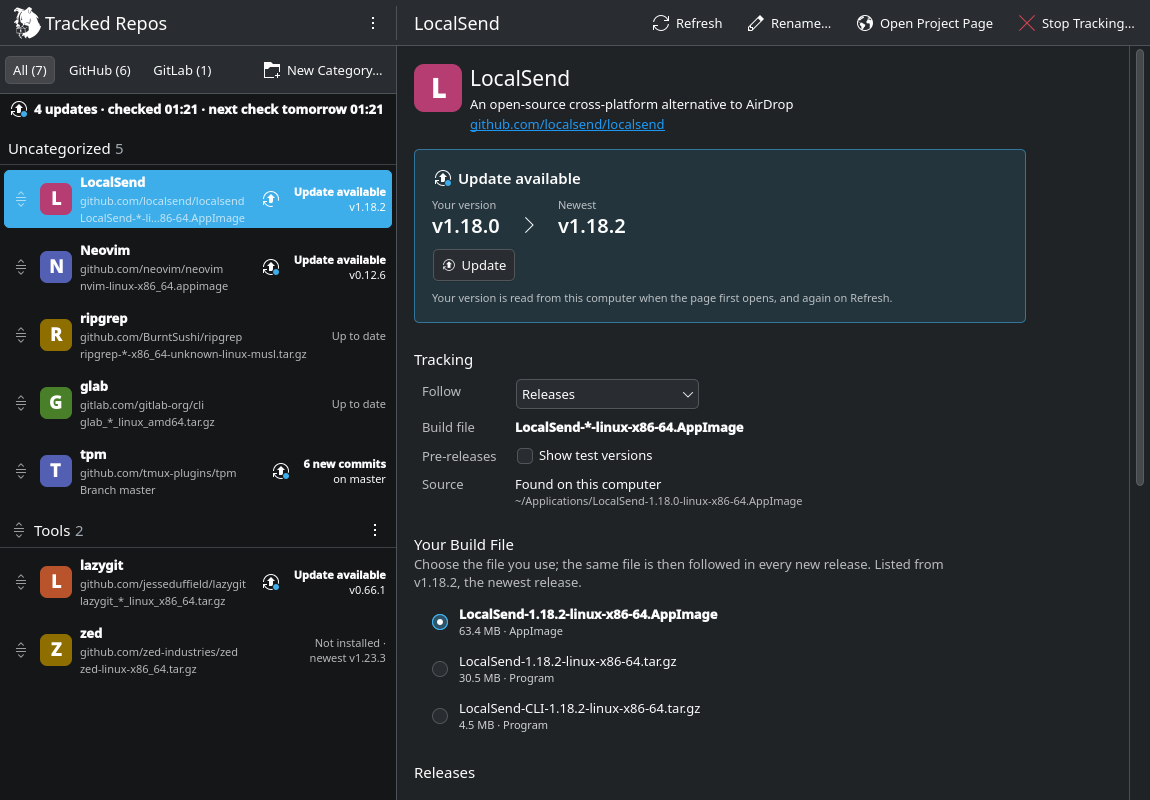
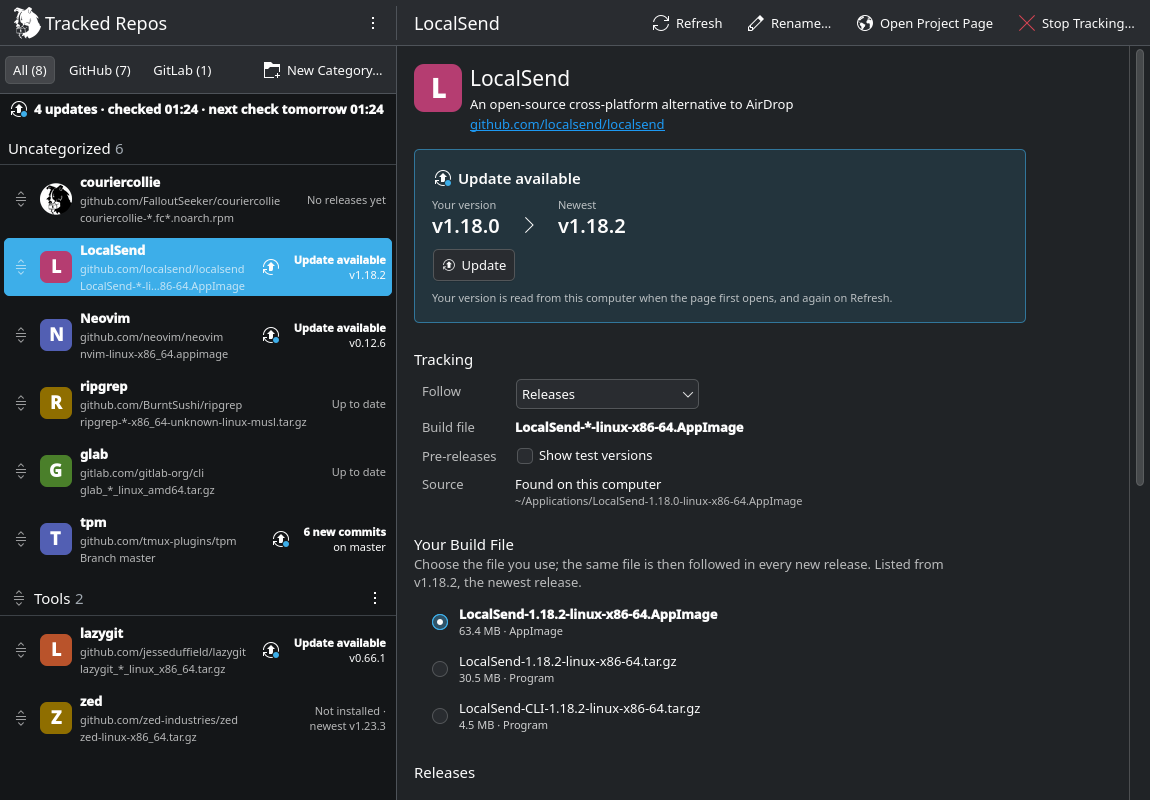
README screenshot: couriercollie itself at the top of the list, as on a real first start

diff --git a/devtools/readme_shot_inner.py b/devtools/readme_shot_inner.py
@@ -62,6 +62,9 @@ def install(rid, older=False):
     print(" ", rid, "->", b._config.find(rid).installed, b.details(rid)["updateNote"][:80], flush=True)
 
 
+# couriercollie itself, as on a real first start: tracked from its package, at the top of the list.
+b._config.settings.tracked_itself = False
+b._track_myself()
 localsend = add("https://github.com/localsend/localsend", "-linux-x86-64.AppImage")
 b.renameRepo(localsend, "LocalSend")
 install(localsend, older=True)
